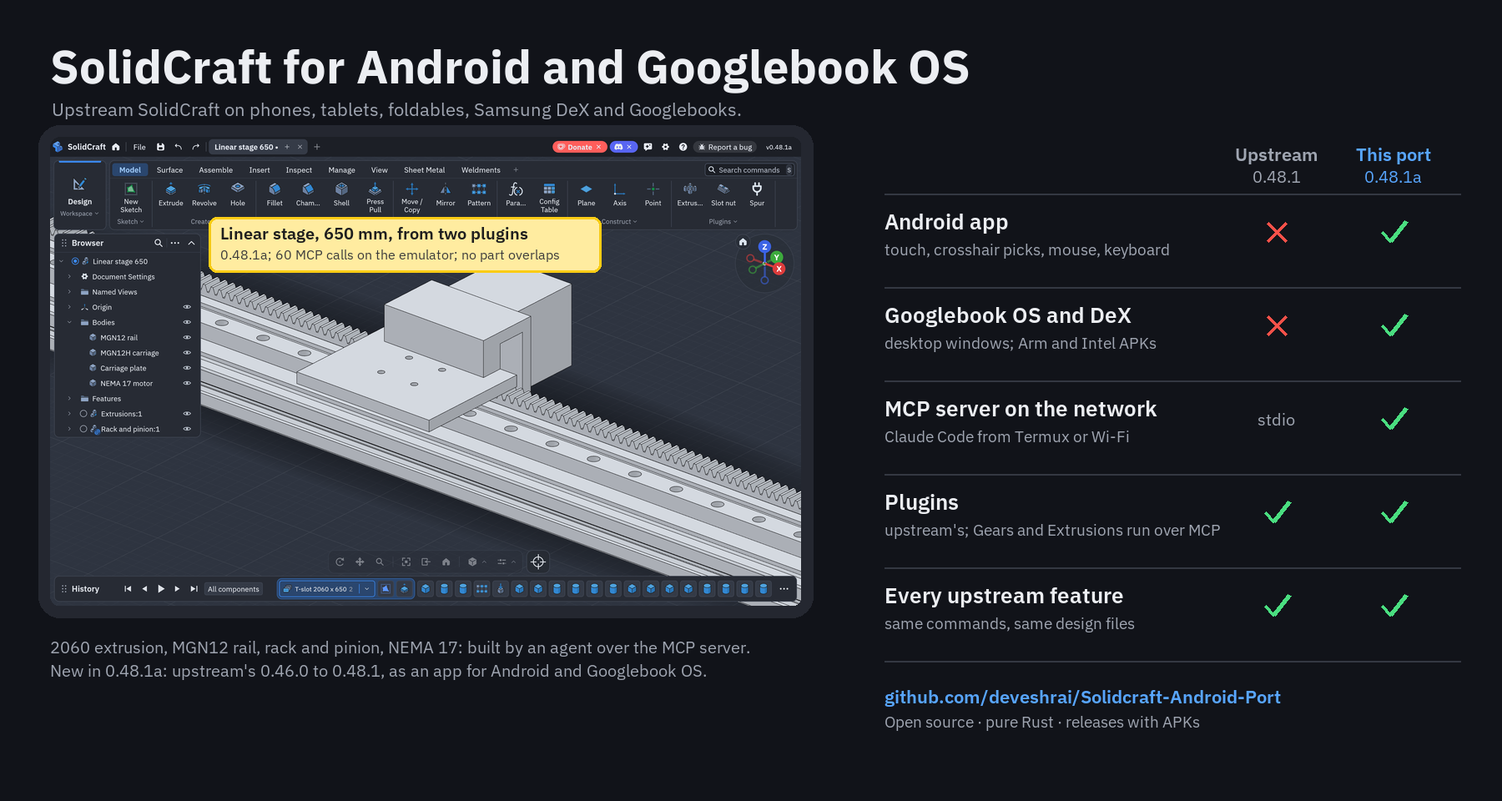
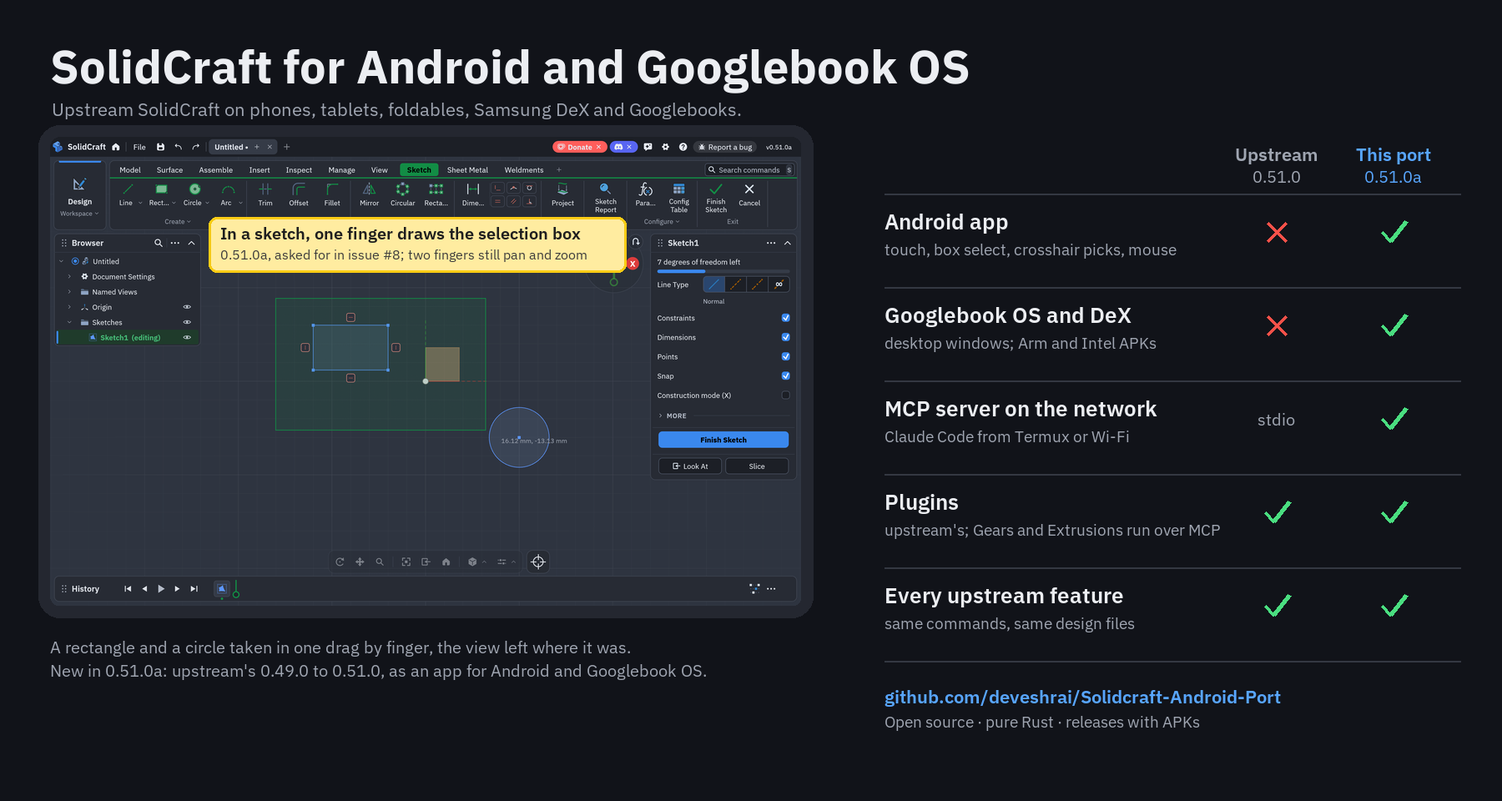
Android port 0.51.0a: release docs, the test and the README hero
The README, port-vs-upstream page, touch guide and known issues now name 0.51.0a (upstream
0.51.0, format 72) and one finger's selection box in a sketch (#8). docs/android-0510a-test.md:
the merge, box selection by finger on the emulator, the linear stage over MCP (60 calls, no
overlaps), the same plugin-free steps 10.4 s on 0.51.0a against 12.6 s on 0.48.1a, and OpenGL ES
in software on the emulator. The hero shows the finger's selection box.

Claude-Session: https://claude.ai/code/session_01Ctt1PEDniPjCXqhfp2LZhi

diff --git a/scripts/android-hero.py b/scripts/android-hero.py
@@ -1,6 +1,6 @@
 """The README's hero image: the port next to upstream, with a screenshot of the latest device test.
 
-    python3 scripts/android-hero.py SCREENSHOT.png docs/screenshots/android/hero-port-vs-upstream.png 0.48.1 0.48.1a
+    python3 scripts/android-hero.py SCREENSHOT.png docs/screenshots/android/hero-port-vs-upstream.png 0.51.0 0.51.0a
 
 Needs Pillow. Edit the call-out and caption text below for each release's test."""
 import sys
@@ -41,15 +41,15 @@ im.paste(shot, (fx + pad, fy + pad), mask)
 
 # Call-out over the screenshot: what the run did.
 cx, cy = fx + pad + 190, fy + pad + 96
-box = (cx, cy, cx + 470, cy + 66)
+box = (cx, cy, cx + 500, cy + 66)
 d.rounded_rectangle(box, radius=10, fill=(255, 236, 160), outline=YELLOW, width=3)
-d.text((cx + 14, cy + 6), "Linear stage, 650 mm, from two plugins", font=font(20, "SemiBold"), fill=(30, 30, 30))
-d.text((cx + 14, cy + 34), "0.48.1a; 60 MCP calls on the emulator; no part overlaps", font=font(16), fill=(60, 60, 60))
+d.text((cx + 14, cy + 6), "In a sketch, one finger draws the selection box", font=font(20, "SemiBold"), fill=(30, 30, 30))
+d.text((cx + 14, cy + 34), "0.51.0a, asked for in issue #8; two fingers still pan and zoom", font=font(16), fill=(60, 60, 60))
 
 d.text((60, fy + shot.height + 2 * pad + 22),
-       "2060 extrusion, MGN12 rail, rack and pinion, NEMA 17: built by an agent over the MCP server.",
+       "A rectangle and a circle taken in one drag by finger, the view left where it was.",
        font=font(20), fill=DIM)
-d.text((60, fy + shot.height + 2 * pad + 50), "New in 0.48.1a: upstream's 0.46.0 to 0.48.1, as an app for Android and Googlebook OS.", font=font(20), fill=DIM)
+d.text((60, fy + shot.height + 2 * pad + 50), "New in 0.51.0a: upstream's 0.49.0 to 0.51.0, as an app for Android and Googlebook OS.", font=font(20), fill=DIM)
 
 # The comparison table.
 tx, c1, c2 = 1060, 1530, 1670
@@ -69,7 +69,7 @@ def cross(x, y):
 
 
 rows = [
-    ("Android app", "touch, crosshair picks, mouse, keyboard", None, True),
+    ("Android app", "touch, box select, crosshair picks, mouse", None, True),
     ("Googlebook OS and DeX", "desktop windows; Arm and Intel APKs", None, True),
     ("MCP server on the network", "Claude Code from Termux or Wi-Fi", "stdio", True),
     ("Plugins", "upstream's; Gears and Extrusions run over MCP", True, True),

diff --git a/docs/android-0510a-test.md b/docs/android-0510a-test.md
@@ -1,0 +1,121 @@
+# 0.51.0a: the test
+
+Upstream's 0.51.0 merged into SolidCraft for Android and Googlebook OS, with one port fix: in a
+sketch, one finger draws the selection box instead of turning the view
+([#8](https://github.com/deveshrai/Solidcraft-Android-Port/issues/8), asked for by Vealdvyn).
+Tested on the Android emulator (a Pixel Tablet image, Android 16, arm64), drawing first in software
+and then with the Mac's GPU (`-gpu host`: Vulkan on an Apple M2 through MoltenVK).
+
+![One finger dragged across a sketch draws the selection box](screenshots/android/sketch-box-select-emu-0510a.jpg)
+
+- [In short](#in-short)
+- [1. The merge](#1-the-merge)
+- [2. Box selection by finger (#8)](#2-box-selection-by-finger-8)
+- [3. The linear stage over MCP](#3-the-linear-stage-over-mcp)
+- [4. OpenGL ES and slow start-ups](#4-opengl-es-and-slow-start-ups)
+- [5. Not tested yet](#5-not-tested-yet)
+
+## In short
+
+| | |
+|---|---|
+| Upstream | 0.48.1 to 0.51.0 merged: 5,944 commits; 33 of the files they changed carry port changes, 6 conflicted, each keeping both sides |
+| The port's checks | every area's tests pass, 11 touch tests among them; the Android, desktop and browser builds have no warnings |
+| #8 | in a sketch one finger from empty view draws the selection box and takes what it spans; the view stays put; outside a sketch one finger still turns the view |
+| Linear stage | 60 calls, none failed, 7 closed bodies, none overlapping: 71 to 80 s on the emulator with the Mac's GPU |
+| Against 0.48.1a | the same plugin-free steps on the same emulator: 10.4 s on 0.51.0a, 12.6 s on 0.48.1a |
+| Upgrade | 0.48.1a installed over by 0.51.0a: its settings and MCP token kept |
+| Format | 72, upstream's own |
+
+## 1. The merge
+
+Upstream 0.49.0, 0.49.1, 0.50.0 and 0.51.0 brought 5,944 commits. The conflicts:
+
+- **The 3D view.** Upstream's click now accepts a dimension being edited when you click outside it,
+  and a right click with the middle button held is a navigation chord; the port's crosshair still
+  clicks where the finger lifts, and a held crosshair still opens no menu.
+- **The agent chat's dependencies.** Upstream added a font database next to the PDF reader; the
+  clipboard crate still stays out of the Android build, which it has no backend for.
+- **The OpenGL ES test** keeps naga's GLSL writer next to upstream's new JSON dependency.
+- **Tests:** upstream's plugin storage tests and ribbon separator test, next to the port's plugin
+  folder and finger-scrolled drop-down tests.
+- `AGENTS.md`: upstream's shorter router, with the port's skill row.
+
+After the merge, one more change: 0.51's control server takes a wake-up handle (it serves a request
+without waiting for a frame). The port's MCP server passes an empty one, so requests wake the app
+with a repaint as before. German and Korean "GEAR" and "Groove" are upstream's own now, so the
+port's copies went.
+
+## 2. Box selection by finger (#8)
+
+Before: with a sketch open, one finger on empty view turned the camera, so there was no way to
+select several lines and points at once by finger. Now, while a sketch is edited:
+
+- one finger dragged from empty view draws the selection box, as a mouse drag does, and lifting it
+  selects what the box spans;
+- a finger on the sketch's own geometry still drags it;
+- two fingers still pan and pinch-zoom;
+- with the view bar's orbit button on, one finger turns the view, as before;
+- outside a sketch, one finger still turns the view.
+
+On the emulator, by finger (`adb shell input`): New Sketch, the XY plane, a rectangle and a circle,
+then one drag from above left of both to below right. The box showed while the finger moved (top);
+lifting it selected the rectangle's four lines, the circle, their points and constraints, and the
+view didn't move. Then Finish Sketch and the same drag turned the view.
+
+The first build of the fix left a gap: with the view bar's orbit button on, a finger in a sketch
+did nothing at all, neither box nor orbit. The button now wins, and the test covers it.
+
+![After the drag: the rectangle and the circle selected](screenshots/android/sketch-box-selected-emu-0510a.jpg)
+
+The change is `touch_pick::one_finger_selects` (`crates/ui-egui/src/touch_pick.rs`), which upstream's
+touch navigation asks before a single finger turns the view: yes in a sketch, unless the view
+bar's orbit, pan or zoom button is on. The test is
+`a_finger_box_selects_in_a_sketch_and_two_fingers_still_pan`.
+
+## 3. The linear stage over MCP
+
+The same [`stage.py`](../tools/mcp-cassette-test/stage.py) as [0.48.1a's test](android-0481a-test.md):
+a 650 mm stage from the Extrusions 0.3.0 and Gears 0.10.0 plugins, an MGN12 rail and carriage, a
+carriage plate and a NEMA 17. 60 calls, none failed, no parts overlapping, 7 closed bodies.
+
+![The stage on the emulator, 0.51.0a](screenshots/android/linear-stage-emu-0510a.jpg)
+
+| Step | 1st run | 2nd run |
+|---|---|---|
+| Rack and pinion (Gears plugin) | 18.5 s | 14.1 s |
+| 2060 extrusion, 650 mm (Extrusions plugin) | 12.0 s | 9.9 s |
+| The rail's 26 screw holes | 8.9 s | 7.9 s |
+| Interference, everything | 7.8 s: none | 7.3 s: none |
+| All 60 calls | 80.2 s | 71.4 s |
+
+That is slower than 0.48.1a's 36 s in its test, so the same plugin-free steps (the rail, its 26
+holes, a carriage, interference, measuring) ran on both releases on this same emulator: **0.51.0a
+10.4 s, 0.48.1a 12.6 s** (the holes 5.9 s against 8.3 s). 0.51.0a isn't slower; this emulator
+setup is.
+
+Upstream's MCP server now adds a note after a tool's JSON reply (the current selection, for one),
+so the test client [`mcp.py`](../tools/mcp-cassette-test/mcp.py) reads the JSON at the start of
+the reply. An agent reading the text is unaffected.
+
+## 4. OpenGL ES and slow start-ups
+
+- **The first launch after the install was stopped by Android as not responding.** It started with
+  the emulator's screen off, and compiling the view's shaders on its software Vulkan took longer
+  than Android's 5 s. The start-up guard then did its job: the next launch used OpenGL ES and said
+  so.
+- **On OpenGL ES** (ANGLE over SwiftShader, both in software) 0.51.0a drew the model and its
+  windows without errors, but each touch took about 2.7 s to answer, too slow to use. Clearing the
+  app's data put it back on Vulkan.
+- On a slow emulator a finger held still long enough before moving counts as a long press: the
+  first drags showed "Nothing to select here" instead of a box. With the Mac's GPU
+  (`-gpu host`) the drags drew the box every time.
+- With the Mac's GPU the first frame took about 50 s on a fresh install (the shaders compiling),
+  15 s after an upgrade.
+
+## 5. Not tested yet
+
+- A phone or tablet: the Galaxy Z Fold and Galaxy Tab weren't connected for this test.
+- Two fingers on a device. The emulator's `adb shell input` sends one finger; the two-finger pan
+  in a sketch is covered by the test above.
+- OpenGL ES on a real GPU.

diff --git a/docs/android-known-issues.md b/docs/android-known-issues.md
@@ -4,8 +4,8 @@ What is wrong or missing in the current port release, and what is planned for th
 entry says how to work around it today. Fixed entries move to [Fixed](#fixed) with the release that
 fixed them.
 
-Current: **port 0.48.1a** (upstream's 0.48.1). Next:
-**0.48.1b**, or the next upstream release's **a**, if upstream releases
+Current: **port 0.51.0a** (upstream's 0.51.0). Next:
+**0.51.0b**, or the next upstream release's **a**, if upstream releases
 first. See also [android-vs-upstream.md](android-vs-upstream.md) for what upstream has that the port
 doesn't, and the reverse.
 
@@ -20,7 +20,9 @@ doesn't, and the reverse.
 
 | Issue | Seen on | Work-around today | Plan |
 |---|---|---|---|
-| **0.48.1a hasn't been tried on OpenGL ES yet.** It was tested on the Android emulator and a Galaxy Z Fold, both on Vulkan. Upstream 0.48 draws edges a new way that needs a feature OpenGL ES lacks, so on OpenGL ES the view keeps the older way; no phone falling back to OpenGL ES has shown 0.48.1a yet. | Android emulator and Galaxy Z Fold, 0.48.1a | If the view or its edges look wrong, **Report a bug** in the app | Test on OpenGL ES with a debug build |
+| **0.51.0a hasn't been tried on a phone or tablet, or on OpenGL ES on a real GPU.** It was tested on the Android emulator. There it also ran on OpenGL ES (ANGLE over SwiftShader, all in software): it drew the model and its windows without errors, but each touch took about 2.7 s. | Android emulator, 0.51.0a | If the view or its edges look wrong, **Report a bug** in the app | Test on a Galaxy Z Fold and Galaxy Tab, and on OpenGL ES with a debug build |
+| **A launch with the screen off can be stopped as not responding on a slow GPU.** Compiling the view's shaders on the emulator's software Vulkan took longer than Android's 5 s, so Android stopped the app; the start-up guard then moved the next launch to OpenGL ES, as it is meant to. | Android emulator (software Vulkan), 0.51.0a | Start the app with the screen on; to go back to Vulkan, clear the app's data | Compile the shaders off the window thread on Android, or tell an ANR from graphics that don't start |
+| **On a slow device a drag that starts slowly counts as a long press.** With the emulator drawing in software, a finger that stayed still a moment before moving showed "Nothing to select here" (the long-press pick) instead of drawing the selection box. | Android emulator (software Vulkan), 0.51.0a | Start moving at once | Find whether the long press is timed by frames, and time it by the touch instead |
 | **A plugin runs only from a folder named after its id.** Gears 0.10.0's zip unpacks to `gears-0.10.0`; an agent that runs it from there (`plugin.inspect`) is refused until it is renamed `gears`. Installing through Settings › Plugins isn't affected. | Android emulator, 0.48.1a | Rename the folder to the plugin's id | Upstream's rule: suggest the plugin ship its folder under its id |
 | **On Adreno GPUs bodies are built on the CPU.** Upstream 0.40's GPU tessellation shader crashes Qualcomm's compiler, so the port skips it there. Showing a large design can take longer than it would on the GPU. | Galaxy Z Fold (Adreno 840), 0.40.0-rc.2a | None needed | Report the crash upstream with the shader; turn the GPU back on for Adreno once a driver or shader change avoids it |
 | **Googlebook screens differ.** The app runs on Googlebooks exactly as on other Android devices, since the Android underneath is the same; it was fine on an HP and a Dell XPS Googlebook (0.41.0a). Other models have other resolutions and scaling, which haven't been tried. | HP and Dell XPS Googlebooks, 0.41.0a | If the layout looks wrong, resize the app's window | Report screenshots from other models: [issues](https://github.com/deveshrai/Solidcraft-Android-Port/issues) |
@@ -105,6 +107,7 @@ reported or left to upstream, not patched in the port, so merges stay clean.
 
 | Issue | Fixed in |
 |---|---|
+| In a sketch, one finger on empty space turned the view, so several lines and points couldn't be box-selected by finger ([#8](https://github.com/deveshrai/Solidcraft-Android-Port/issues/8)) | 0.51.0a: in a sketch one finger draws the selection box; two fingers still pan and pinch, and the view bar's orbit button still turns the view by finger. Tested on the emulator |
 | The app closed when a chamfer was previewed (a cone's or a cylinder's edge picked), or now and then elsewhere after using it a while: Rust's std on Android takes a system thread-local key for each of the app's ~150 thread-locals and Android gives a process about 128, shared with the graphics driver, so std aborted ("out of TLS keys"). Adreno phones ran out first | 0.45.0b: the app's thread-locals share one system key (`apps/solidcraft-android/src/tls_keys.rs`). On the Galaxy Z Fold the same taps that crashed 0.45.0a every time (cone, Chamfer, base edge) previewed and applied, and so did a cylinder's top edge, through three folds and unfolds |
 | With upstream's touch navigation, a finger on sketch geometry orbited instead of dragging it, and with a dialog open a finger couldn't turn the view | 0.45.0a, the release that adopted it: a finger on what the view drags is the view's, and touch navigation stays on with a dialog open. Tested on a Galaxy Tab |
 | The on-screen keyboard came up whenever a window or tool focused a field by itself (Add parameter, a rectangle's dimension boxes), covering the dialog or the sketch: a rectangle's second corner landed on the keyboard ([#6](https://github.com/deveshrai/Solidcraft-Android-Port/issues/6)) | 0.42.0a: the keyboard comes up when you tap a field; a hardware keyboard still types into the focused field at once. Tested on a Galaxy Z Fold |

diff --git a/README.md b/README.md
@@ -10,14 +10,14 @@ any Android device, on HP and Dell XPS Googlebooks.*
 
 **This is SolidCraft for Android and Googlebook OS.** It is upstream
 [tangency-labs/solidcraft](https://github.com/tangency-labs/solidcraft), kept up to date with every
-upstream release (now **0.48.1**), as an app for Android phones, tablets and foldables, Samsung DeX,
+upstream release (now **0.51.0**), as an app for Android phones, tablets and foldables, Samsung DeX,
 and Googlebooks, Google's laptops whose Googlebook OS is Android-based. Current release:
-**0.48.1a** ([APKs](https://github.com/deveshrai/Solidcraft-Android-Port/releases/latest): arm64 for
+**0.51.0a** ([APKs](https://github.com/deveshrai/Solidcraft-Android-Port/releases/latest): arm64 for
 phones, tablets and Snapdragon Googlebooks; x86_64 for Intel Googlebooks).
 
 | Added in this port | What it gives you | Guide |
 |---|---|---|
-| **Touch** | One finger orbits, two pan, a pinch zooms, and a **crosshair** picks small edges and faces by finger; dialog arrows and long menus follow a finger | [Using it](docs/android-touch.md) |
+| **Touch** | One finger orbits (in a sketch it draws the selection box), two pan, a pinch zooms, and a **crosshair** picks small edges and faces by finger; dialog arrows and long menus follow a finger | [Using it](docs/android-touch.md) |
 | **Desktop windows** | In Samsung DeX and on Googlebook OS the app runs in a window, with a mouse, trackpad and keyboard as on a computer | [Using it](docs/android-touch.md#mouse-and-keyboard) |
 | **Files** | Open, save, import and export through Android's picker: device, SD card, Google Drive | [Files](docs/android-touch.md#files) |
 | **MCP server on the network** | One switch in Settings: Claude Code in Termux on the device, or on a computer on the same Wi-Fi, models in the app while you watch | [MCP server](docs/android-mcp.md) |
@@ -26,7 +26,10 @@ Everything else is upstream's, unchanged: the sketcher and solver, every feature
 exact modelled threads, and since 0.41 **plugins**, the first of them
 [SolidCraft Gears](https://github.com/bherbruck/solidcraft-gears), an involute gear generator.
 
-**New in 0.48.1a:** upstream's 0.46.0 to 0.48.1, with a Privacy page in Settings; plugins
+**New in 0.51.0a:** upstream's 0.49.0 to 0.51.0; in a sketch, one finger dragged from empty space
+draws the selection box instead of turning the view, and two fingers still pan and zoom
+([#8](https://github.com/deveshrai/Solidcraft-Android-Port/issues/8), [the test](docs/android-0510a-test.md)).
+**In 0.48.1a:** upstream's 0.46.0 to 0.48.1, with a Privacy page in Settings; plugins
 build a 650 mm linear stage over MCP ([below](#plugins-on-android)). **In 0.45.0b:** the app no longer closes on a chamfer preview, or after a while, on Adreno
 phones such as the Galaxy Z Fold. **In 0.45.0a:** upstream's 0.43.0 to 0.45.0, with drawings; touch navigation is upstream's,
 and a finger still drags sketch geometry and turns the view with a dialog open. **In 0.42.0a:** the on-screen
@@ -56,7 +59,7 @@ In 0.48.1a two plugins from the [plugin index](https://tharje.github.io/solidcra
 2060 T-slot profile, [Gears](https://github.com/bbonsen/solidcraftGearsPlugin) the rack and its
 meshed pinion; an MGN12 rail, carriage and NEMA 17 motor were added around them, 60 calls in all,
 no parts overlapping: 12.3 s on a Galaxy Z Fold. The recording is the emulator's slower run
-([the test](docs/android-0481a-test.md)):
+([the test](docs/android-0481a-test.md)); 0.51.0a builds it too ([its test](docs/android-0510a-test.md#3-the-linear-stage-over-mcp)):
 
 ![A 650 mm linear stage built over MCP on the emulator from the Extrusions and Gears plugins](docs/screenshots/android/linear-stage-emu-0481a.gif)
 

diff --git a/docs/android-vs-upstream.md b/docs/android-vs-upstream.md
@@ -7,7 +7,7 @@ upstream release.
 
 ![The port and upstream](screenshots/android/hero-port-vs-upstream.png)
 
-Current: **port 0.48.1a**, against **upstream 0.48.1** ([what's new](android-whats-new.md)). This page is
+Current: **port 0.51.0a**, against **upstream 0.51.0** ([what's new](android-whats-new.md)). This page is
 kept up to date with each port release ([keeping this page current](#keeping-this-page-current)).
 
 - [At a glance](#at-a-glance)
@@ -20,24 +20,24 @@ kept up to date with each port release ([keeping this page current](#keeping-thi
 
 ## At a glance
 
-| | Upstream 0.48.1 | Port 0.48.1a |
+| | Upstream 0.51.0 | Port 0.51.0a |
 |---|---|---|
 | Platforms | Windows, macOS, Linux, web | All of upstream's, **plus Android and Googlebook OS**: phones, tablets, foldables, Samsung DeX, Googlebooks (an arm64 APK, and an x86_64 one for Intel Googlebooks) |
 | Modelling | Everything: sketches, the solver, every feature and workspace, exact modelled threads, plugins | The same, unchanged |
 | Plugins | Sandboxed WebAssembly plugins (first: [SolidCraft Gears](https://github.com/bherbruck/solidcraft-gears)), installed from a `.zip` | The same; the `.zip` comes through Android's file picker |
 | AI agents | MCP over stdio on the same computer (`solidcraft-cli mcp`), and the agent chat | Upstream's, **plus an MCP server on the network** (Settings › MCP server): Claude Code in Termux on the device, or on a computer on the same Wi-Fi; long calls answer "still running" and wait through `pending`, each session on its own thread, timed batches timed where they computed |
-| Touch | Touchscreen navigation (orbit, pan, pinch), off by default | Upstream's, on by default, also with a dialog open, and a finger drags sketch geometry; tap to select, finger-dragged dialog arrows, finger-scrolled drop-downs, **a crosshair to pick small edges and faces by finger** (view bar) |
+| Touch | Touchscreen navigation (orbit, pan, pinch), off by default | Upstream's, on by default, also with a dialog open, and a finger drags sketch geometry; in a sketch one finger draws the selection box; tap to select, finger-dragged dialog arrows, finger-scrolled drop-downs, **a crosshair to pick small edges and faces by finger** (view bar) |
 | Desktop windows | The operating system's | In a DeX or Googlebook OS window the app keeps below the window's title bar |
 | Files | Native file dialogs | Android's file picker: device, SD card, Google Drive, any storage app |
 | Graphics | Vulkan, Metal, DirectX, OpenGL; Windows retries other APIs | Vulkan or OpenGL ES; a launch that can't start makes the next one use OpenGL ES; the viewport shader compiles on OpenGL ES; bodies are built on the CPU on Adreno, whose compiler crashes on the GPU tessellation shader |
 | Crash reports | Kept, shown at the next start, Report… drafts an issue upstream | The same, plus **Save a copy** through Android's picker; Report… drafts it on the port's tracker |
-| Design file format | 66 | 66: upstream's own |
+| Design file format | 72 | 72: upstream's own |
 
 ## What the port adds
 
 Everything below is about running SolidCraft on Android; the modelling is upstream's.
 
-- **Touch:** one finger orbits, two fingers pan, a pinch zooms about the fingers, a tap selects,
+- **Touch:** one finger orbits (in a sketch it draws the selection box), two fingers pan, a pinch zooms about the fingers, a tap selects,
   a finger drags a dialog's arrows and scrolls a tall drop-down, and the view bar's crosshair
   button picks small edges and faces a finger would cover. All of it goes through upstream's single
   camera-input path (`navigation::handle`). Guide: [android-touch.md](android-touch.md).

diff --git a/docs/android-whats-new.md b/docs/android-whats-new.md
@@ -5,6 +5,7 @@ until the next upstream release (0.24.0a, then 0.24.0b…). APKs:
 [releases](https://github.com/deveshrai/Solidcraft-Android-Port/releases). What is still wrong or
 missing: [android-known-issues.md](android-known-issues.md).
 
+- [0.51.0a](#0510a): upstream 0.49.0 to 0.51.0; in a sketch one finger draws the selection box (#8)
 - [0.48.1a](#0481a): upstream 0.46.0 to 0.48.1; tested with a linear stage built from plugins
 - [0.45.0b](#0450b): no more closing on a chamfer preview or after a while on Adreno phones
 - [0.45.0a](#0450a): upstream 0.43.0 to 0.45.0 (drawings); upstream's touch navigation, and a finger drags sketch geometry
@@ -24,6 +25,26 @@ missing: [android-known-issues.md](android-known-issues.md).
 - [0.23.0a](#0230a): gears, upstream 0.23.0
 - [0.22.0a](#0220a): helical B-rep threads, upstream 0.22.0
 - [0.21.0a](#0210a): the first lettered release, upstream 0.21.0
+
+## 0.51.0a
+
+**In a sketch, one finger draws the selection box**
+([#8](https://github.com/deveshrai/Solidcraft-Android-Port/issues/8), asked for by Vealdvyn).
+While a sketch is edited, one finger dragged from empty space no longer turns the view: it draws
+the selection box, as a mouse drag does, and lifting it selects what the box spans. A finger on
+the sketch's geometry still drags it, two fingers still pan and pinch-zoom, and with the view bar's
+orbit button on one finger turns the view. Outside a sketch nothing changed.
+
+**Upstream 0.49.0 to 0.51.0**: everything in upstream's release notes for
+[0.49.0](https://github.com/tangency-labs/solidcraft/releases/tag/v0.49.0),
+[0.49.1](https://github.com/tangency-labs/solidcraft/releases/tag/v0.49.1),
+[0.50.0](https://github.com/tangency-labs/solidcraft/releases/tag/v0.50.0) and
+[0.51.0](https://github.com/tangency-labs/solidcraft/releases/tag/v0.51.0).
+
+Designs saved by 0.51.0a are format 72 and don't open in earlier port releases.
+
+Tested: [android-0510a-test.md](android-0510a-test.md), on the emulator: box selection by finger,
+the 650 mm linear stage over MCP from the Extrusions and Gears plugins, and an upgrade from 0.48.1a.
 
 ## 0.48.1a
 

diff --git a/attribution/pending/android-port.md b/attribution/pending/android-port.md
@@ -163,3 +163,6 @@
 | docs/screenshots/android/linear-stage-end-emu-0481a.jpg | SolidCraft contributors | screenshot of SolidCraft itself on the Android emulator (a 0.48.1a test build): the linear stage seen along its length | MIT OR Apache-2.0 |
 | docs/screenshots/android/linear-stage-mesh-emu-0481a.jpg | SolidCraft contributors | screenshot of SolidCraft itself on the Android emulator (a 0.48.1a test build): a section through the rack and pinion | MIT OR Apache-2.0 |
 | docs/screenshots/android/linear-stage-fold-0481a.jpg | SolidCraft contributors | screenshot of SolidCraft itself on a Galaxy Z Fold (the 0.48.1a release build): the 650 mm linear stage built over MCP | MIT OR Apache-2.0 |
+| docs/screenshots/android/linear-stage-emu-0510a.jpg | SolidCraft contributors | screenshot of SolidCraft itself on the Android emulator (a 0.51.0a test build): the 650 mm linear stage built over MCP | MIT OR Apache-2.0 |
+| docs/screenshots/android/sketch-box-select-emu-0510a.jpg | SolidCraft contributors | screenshot of SolidCraft itself on the Android emulator (a 0.51.0a test build): one finger drawing the selection box in a sketch | MIT OR Apache-2.0 |
+| docs/screenshots/android/sketch-box-selected-emu-0510a.jpg | SolidCraft contributors | screenshot of SolidCraft itself on the Android emulator (a 0.51.0a test build): a rectangle and a circle selected by a finger's box | MIT OR Apache-2.0 |

diff --git a/docs/android-touch.md b/docs/android-touch.md
@@ -40,9 +40,12 @@ default on Android since 0.45.0a; turned off, a one-finger drag box-selects as a
 two fingers are down the touch stays a pan or pinch until every finger lifts, so lifting one
 finger first does not start an orbit. A finger that lands on a point, curve or dimension of the
 sketch being edited, or on a dialog's arrow, drags it as the mouse does instead of orbiting, and
-with a dialog open a finger on empty space still turns the view. While a sketch tool is on, a
-one-finger drag draws; the view bar at the bottom (orbit, pan, zoom buttons) still moves the view
-then.
+with a dialog open a finger on empty space still turns the view. While a sketch is edited (since
+0.51.0a, [#8](https://github.com/deveshrai/Solidcraft-Android-Port/issues/8)), one finger dragged
+from empty space draws the selection box instead of turning the view, and lifting it selects what
+the box spans; two fingers still pan and pinch, and with the view bar's orbit button on, one
+finger turns the view again. While a sketch tool is on, a one-finger drag draws; the view bar at the bottom
+(orbit, pan, zoom buttons) still moves the view then.
 
 | One finger: orbit | Pinch: zoom | Two fingers: pan |
 |---|---|---|
